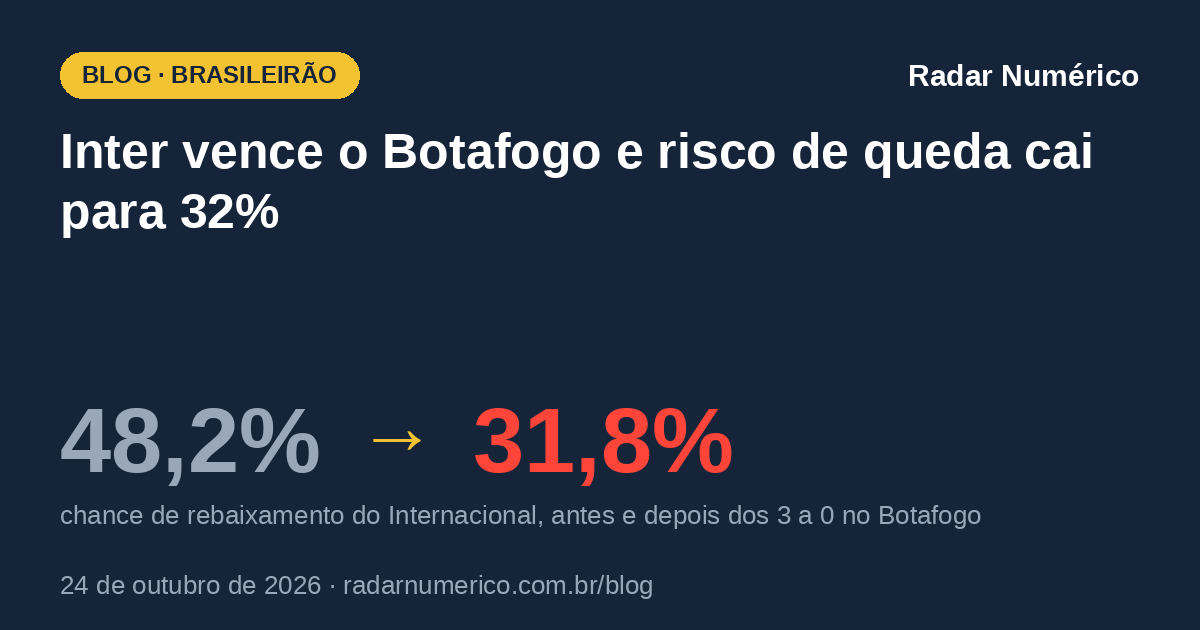
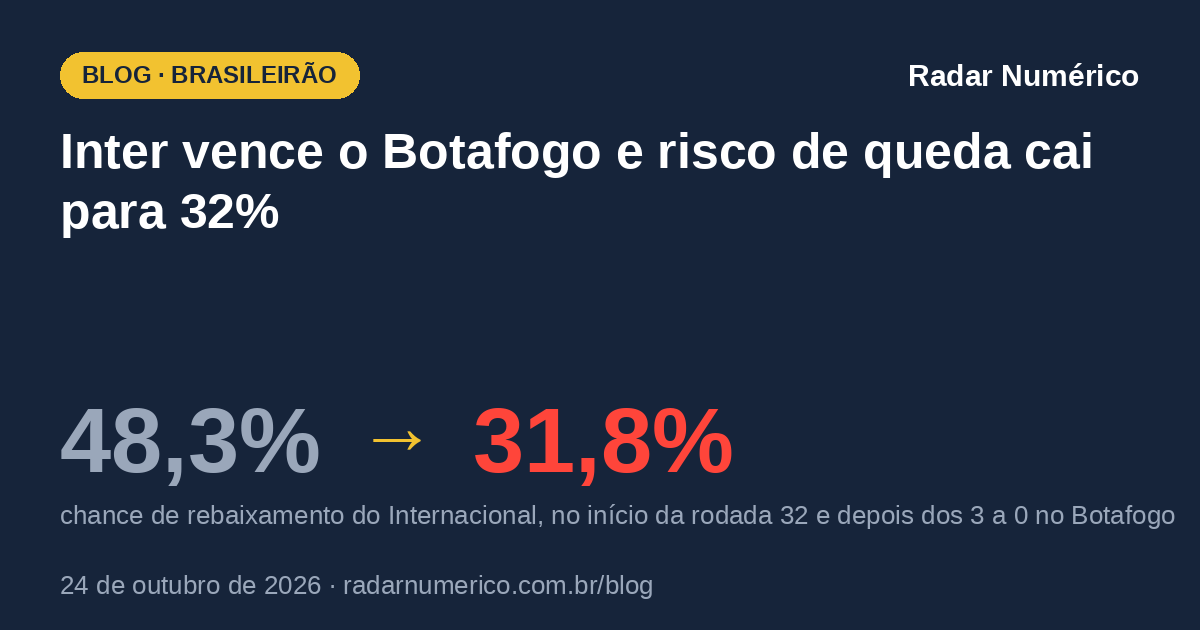
Blog: artigo Internacional compara com o inicio da rodada 32

Changed region(s): [[0.4625, 0.7841, 0.9867, 0.8444], [0.1542, 0.6635, 0.2158, 0.754]]

diff --git a/blog/brasileirao/internacional-rebaixamento/index.html b/blog/brasileirao/internacional-rebaixamento/index.html
@@ -5,19 +5,19 @@
 <meta name="viewport" content="width=device-width, initial-scale=1">
 <meta name="robots" content="max-image-preview:large">
 <title>Inter vence o Botafogo, sai do Z4 e risco de queda cai para 32%</title>
-<meta name="description" content="Internacional vence o Botafogo por 3 a 0 e a chance de rebaixamento cai de 48,2% para 31,8%. Quantos pontos livram e o que vem pela frente.">
+<meta name="description" content="Internacional vence o Botafogo por 3 a 0 e a chance de rebaixamento cai de 48,3% para 31,8%. Quantos pontos livram e o que vem pela frente.">
 <link rel="canonical" href="https://radarnumerico.com.br/blog/brasileirao/internacional-rebaixamento/">
 <meta property="og:type" content="article">
 <meta property="og:site_name" content="Radar Numérico">
 <meta property="og:locale" content="pt_BR">
 <meta property="og:title" content="Inter vence o Botafogo, sai do Z4 e risco de queda cai para 32%">
-<meta property="og:description" content="Internacional vence o Botafogo por 3 a 0 e a chance de rebaixamento cai de 48,2% para 31,8%. Quantos pontos livram e o que vem pela frente.">
+<meta property="og:description" content="Internacional vence o Botafogo por 3 a 0 e a chance de rebaixamento cai de 48,3% para 31,8%. Quantos pontos livram e o que vem pela frente.">
 <meta property="og:url" content="https://radarnumerico.com.br/blog/brasileirao/internacional-rebaixamento/">
 <meta property="og:image" content="https://radarnumerico.com.br/blog/brasileirao/internacional-rebaixamento/og.png">
 <meta property="og:image:width" content="1200">
 <meta property="og:image:height" content="630">
 <meta name="twitter:card" content="summary_large_image">
-<script type="application/ld+json">{"@context": "https://schema.org", "@type": "NewsArticle", "headline": "Inter vence o Botafogo, sai do Z4 e risco de queda cai para 32%", "description": "Internacional vence o Botafogo por 3 a 0 e a chance de rebaixamento cai de 48,2% para 31,8%. Quantos pontos livram e o que vem pela frente.", "inLanguage": "pt-BR", "datePublished": "2026-10-24T19:30:00-03:00", "dateModified": "2026-10-24T19:30:00-03:00", "author": {"@type": "Organization", "name": "Radar Numérico", "url": "https://radarnumerico.com.br/"}, "publisher": {"@type": "Organization", "name": "Radar Numérico", "url": "https://radarnumerico.com.br/", "logo": {"@type": "ImageObject", "url": "https://radarnumerico.com.br/logo.png"}}, "mainEntityOfPage": "https://radarnumerico.com.br/blog/brasileirao/internacional-rebaixamento/", "image": ["https://radarnumerico.com.br/blog/brasileirao/internacional-rebaixamento/og.png"], "articleSection": "Brasileirão", "isPartOf": {"@type": "Blog", "name": "Blog do Radar Numérico", "url": "https://radarnumerico.com.br/blog/"}}</script>
+<script type="application/ld+json">{"@context": "https://schema.org", "@type": "NewsArticle", "headline": "Inter vence o Botafogo, sai do Z4 e risco de queda cai para 32%", "description": "Internacional vence o Botafogo por 3 a 0 e a chance de rebaixamento cai de 48,3% para 31,8%. Quantos pontos livram e o que vem pela frente.", "inLanguage": "pt-BR", "datePublished": "2026-10-24T19:30:00-03:00", "dateModified": "2026-10-24T19:30:00-03:00", "author": {"@type": "Organization", "name": "Radar Numérico", "url": "https://radarnumerico.com.br/"}, "publisher": {"@type": "Organization", "name": "Radar Numérico", "url": "https://radarnumerico.com.br/", "logo": {"@type": "ImageObject", "url": "https://radarnumerico.com.br/logo.png"}}, "mainEntityOfPage": "https://radarnumerico.com.br/blog/brasileirao/internacional-rebaixamento/", "image": ["https://radarnumerico.com.br/blog/brasileirao/internacional-rebaixamento/og.png"], "articleSection": "Brasileirão", "isPartOf": {"@type": "Blog", "name": "Blog do Radar Numérico", "url": "https://radarnumerico.com.br/blog/"}}</script>
 <link rel="icon" type="image/png" href="/favicon.png">
 <link rel="apple-touch-icon" href="/apple-touch-icon.png">
 <link rel="preconnect" href="https://fonts.googleapis.com">
@@ -97,11 +97,11 @@ svg.pos .p1,.legenda i.p1{fill:var(--azul);background:var(--azul)}svg.pos .g6,.l
 <article>
 <div class="kicker"><a href="/blog/">Blog</a> · <a href="/blog/#brasileirao">Brasileirão</a></div>
 <h1>Inter vence o Botafogo, sai do Z4 e risco de queda cai para 32%</h1>
-<p class="sub">Os 3 a 0 no Beira-Rio levaram a chance de rebaixamento de 48,2% para 31,8%, a menor desde a 24ª rodada. Vasco × Corinthians, em andamento, ainda mexe na conta.</p>
+<p class="sub">Com os 3 a 0 no Beira-Rio, a chance de rebaixamento foi de 48,3%, no início da rodada, para 31,8%, a menor desde a 24ª rodada. Vasco × Corinthians, em andamento, ainda mexe na conta.</p>
 <div class="byline"><span>Por <b>Equipe Radar Numérico</b></span><span>24 de outubro de 2026 às 19h30</span><span>Rodada 32</span></div>
-<p>O Internacional venceu o Botafogo por 3 a 0 no Beira-Rio, na tarde deste sábado (24/10), pela 32ª rodada, e já foi para o intervalo com 2 a 0. Com a vitória, chegou a 35 pontos, passou o Corinthians (33) e saiu da zona de rebaixamento, pelo menos por enquanto. Pelo modelo do Radar Numérico, a chance de rebaixamento caiu de 48,2% para <strong>31,8%</strong>: 16,4 pontos percentuais a menos, a maior queda entre os 20 times nesta atualização.</p>
+<p>O Internacional venceu o Botafogo por 3 a 0 no Beira-Rio, na tarde deste sábado (24/10), pela 32ª rodada, e já foi para o intervalo com 2 a 0. Com a vitória, chegou a 35 pontos, passou o Corinthians (33) e saiu da zona de rebaixamento, pelo menos por enquanto. Pelo modelo do Radar Numérico, a chance de rebaixamento caiu de 48,3%, no início da rodada, para <strong>31,8%</strong>: 16,5 pontos percentuais a menos, a maior queda entre os 20 times na rodada.</p>
 <p>A situação ainda é provisória. Vasco × Corinthians está em andamento neste momento, e o Grêmio só joga na segunda-feira, contra o Coritiba. Os números abaixo são do retrato feito logo depois do jogo do Beira-Rio.</p>
-<figure class="graf"><figcaption><b>Chance de rebaixamento antes e depois de Internacional 3×0 Botafogo</b><span>Quem já está matematicamente rebaixado fica de fora. Barra clara: antes · barra escura: depois.</span></figcaption><div class="barras dupla"><div class="nome"><small>18º</small><span class="esc"><i style="background:#0099DC;color:#fff;border-color:#111111">GRE</i></span>Grêmio</div><div class="trilhos"><div class="trilho"><div class="fill antes" style="width:84.0%"></div></div><div class="trilho"><div class="fill" style="width:83.7%"></div></div></div><div class="val"><small>84,0%</small>83,7%<span class="chip bom">−0,2 p.p.</span></div><div class="nome"><small>16º</small><span class="esc"><i style="background:#E30613;color:#fff;border-color:#FFFFFF">INT</i></span>Internacional</div><div class="trilhos"><div class="trilho"><div class="fill antes" style="width:48.2%"></div></div><div class="trilho"><div class="fill" style="width:31.8%"></div></div></div><div class="val"><small>48,2%</small>31,8%<span class="chip bom">−16,4 p.p.</span></div><div class="nome"><small>17º</small><span class="esc"><i style="background:#111111;color:#fff;border-color:#FFFFFF">COR</i></span>Corinthians</div><div class="trilhos"><div class="trilho"><div class="fill antes" style="width:24.6%"></div></div><div class="trilho"><div class="fill" style="width:28.7%"></div></div></div><div class="val"><small>24,6%</small>28,7%<span class="chip ruim">+4,1 p.p.</span></div><div class="nome"><small>14º</small><span class="esc"><i style="background:#FFD200;color:#15171C;border-color:#008A3E">MIR</i></span>Mirassol</div><div class="trilhos"><div class="trilho"><div class="fill antes" style="width:14.6%"></div></div><div class="trilho"><div class="fill" style="width:20.1%"></div></div></div><div class="val"><small>14,6%</small>20,1%<span class="chip ruim">+5,5 p.p.</span></div><div class="nome"><small>13º</small><span class="esc"><i style="background:#E30613;color:#fff;border-color:#111111">VIT</i></span>Vitória</div><div class="trilhos"><div class="trilho"><div class="fill antes" style="width:10.3%"></div></div><div class="trilho"><div class="fill" style="width:13.6%"></div></div></div><div class="val"><small>10,3%</small>13,6%<span class="chip ruim">+3,2 p.p.</span></div><div class="nome"><small>12º</small><span class="esc"><i style="background:#006E4C;color:#fff;border-color:#FFFFFF">CFC</i></span>Coritiba</div><div class="trilhos"><div class="trilho"><div class="fill antes" style="width:8.6%"></div></div><div class="trilho"><div class="fill" style="width:9.9%"></div></div></div><div class="val"><small>8,6%</small>9,9%<span class="chip ruim">+1,3 p.p.</span></div><div class="nome"><small>15º</small><span class="esc"><i style="background:#FFFFFF;color:#15171C;border-color:#111111">VAS</i></span>Vasco</div><div class="trilhos"><div class="trilho"><div class="fill antes" style="width:7.6%"></div></div><div class="trilho"><div class="fill" style="width:8.9%"></div></div></div><div class="val"><small>7,6%</small>8,9%<span class="chip ruim">+1,2 p.p.</span></div><div class="nome"><small>11º</small><span class="esc"><i style="background:#111111;color:#fff;border-color:#FFFFFF">BOT</i></span>Botafogo</div><div class="trilhos"><div class="trilho"><div class="fill antes" style="width:2.1%"></div></div><div class="trilho"><div class="fill" style="width:3.4%"></div></div></div><div class="val"><small>2,1%</small>3,4%<span class="chip ruim">+1,3 p.p.</span></div></div></figure>
+<figure class="graf"><figcaption><b>Chance de rebaixamento no início da rodada 32 e agora</b><span>Quem já está matematicamente rebaixado fica de fora. Barra clara: antes da rodada 32 · barra escura: atualização de 24/10 às 19h12.</span></figcaption><div class="barras dupla"><div class="nome"><small>18º</small><span class="esc"><i style="background:#0099DC;color:#fff;border-color:#111111">GRE</i></span>Grêmio</div><div class="trilhos"><div class="trilho"><div class="fill antes" style="width:84.0%"></div></div><div class="trilho"><div class="fill" style="width:83.7%"></div></div></div><div class="val"><small>84,0%</small>83,7%<span class="chip bom">−0,3 p.p.</span></div><div class="nome"><small>16º</small><span class="esc"><i style="background:#E30613;color:#fff;border-color:#FFFFFF">INT</i></span>Internacional</div><div class="trilhos"><div class="trilho"><div class="fill antes" style="width:48.3%"></div></div><div class="trilho"><div class="fill" style="width:31.8%"></div></div></div><div class="val"><small>48,3%</small>31,8%<span class="chip bom">−16,5 p.p.</span></div><div class="nome"><small>17º</small><span class="esc"><i style="background:#111111;color:#fff;border-color:#FFFFFF">COR</i></span>Corinthians</div><div class="trilhos"><div class="trilho"><div class="fill antes" style="width:24.6%"></div></div><div class="trilho"><div class="fill" style="width:28.7%"></div></div></div><div class="val"><small>24,6%</small>28,7%<span class="chip ruim">+4,1 p.p.</span></div><div class="nome"><small>14º</small><span class="esc"><i style="background:#FFD200;color:#15171C;border-color:#008A3E">MIR</i></span>Mirassol</div><div class="trilhos"><div class="trilho"><div class="fill antes" style="width:14.6%"></div></div><div class="trilho"><div class="fill" style="width:20.1%"></div></div></div><div class="val"><small>14,6%</small>20,1%<span class="chip ruim">+5,4 p.p.</span></div><div class="nome"><small>13º</small><span class="esc"><i style="background:#E30613;color:#fff;border-color:#111111">VIT</i></span>Vitória</div><div class="trilhos"><div class="trilho"><div class="fill antes" style="width:10.5%"></div></div><div class="trilho"><div class="fill" style="width:13.6%"></div></div></div><div class="val"><small>10,5%</small>13,6%<span class="chip ruim">+3,0 p.p.</span></div><div class="nome"><small>12º</small><span class="esc"><i style="background:#006E4C;color:#fff;border-color:#FFFFFF">CFC</i></span>Coritiba</div><div class="trilhos"><div class="trilho"><div class="fill antes" style="width:8.6%"></div></div><div class="trilho"><div class="fill" style="width:9.9%"></div></div></div><div class="val"><small>8,6%</small>9,9%<span class="chip ruim">+1,3 p.p.</span></div><div class="nome"><small>15º</small><span class="esc"><i style="background:#FFFFFF;color:#15171C;border-color:#111111">VAS</i></span>Vasco</div><div class="trilhos"><div class="trilho"><div class="fill antes" style="width:7.4%"></div></div><div class="trilho"><div class="fill" style="width:8.9%"></div></div></div><div class="val"><small>7,4%</small>8,9%<span class="chip ruim">+1,4 p.p.</span></div><div class="nome"><small>11º</small><span class="esc"><i style="background:#111111;color:#fff;border-color:#FFFFFF">BOT</i></span>Botafogo</div><div class="trilhos"><div class="trilho"><div class="fill antes" style="width:2.1%"></div></div><div class="trilho"><div class="fill" style="width:3.4%"></div></div></div><div class="val"><small>2,1%</small>3,4%<span class="chip ruim">+1,3 p.p.</span></div></div></figure>
 
 <h2>O menor risco em oito rodadas</h2>
 <p>No campeonato inteiro, o risco do Inter cresceu ao longo do returno. A chance de queda, que ficou quase sempre abaixo de 16% até a 18ª rodada, subiu a partir da 19ª e bateu 55,6% depois da 26ª. Desde então, oscilou entre 38% e 53%. Os 31,8% de agora são o menor valor desde a 24ª rodada (31,0%).</p>
